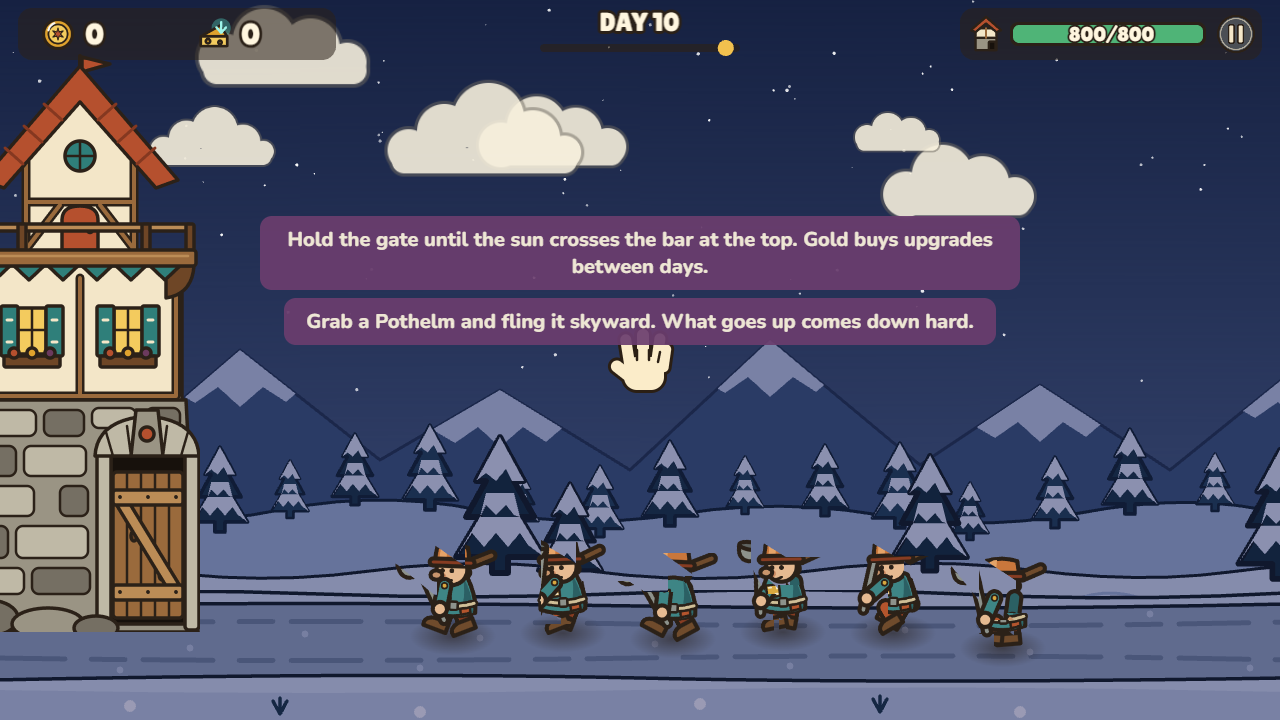
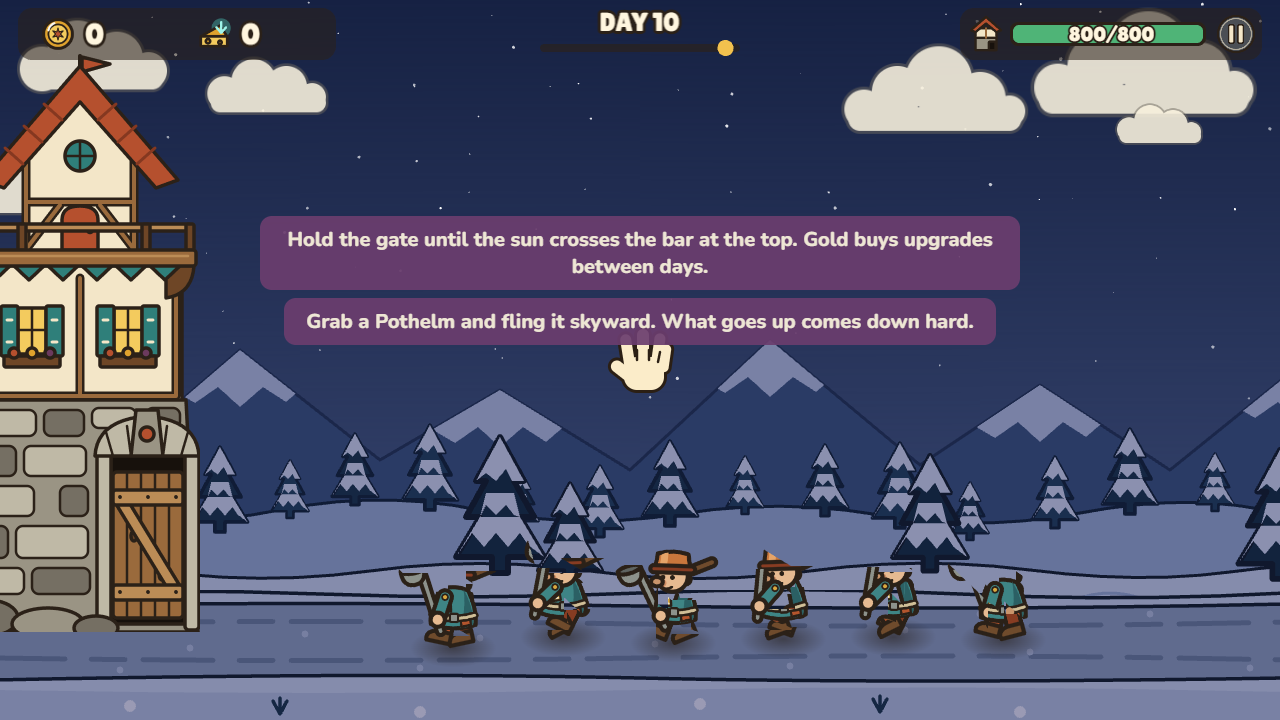
Rebalance after third playtest: pacing, weapons, throw range, visuals

diff --git a/src/config/shop.ts b/src/config/shop.ts
@@ -35,16 +35,16 @@ export const SHOP_ITEMS: ShopItem[] = [
   { id: 'cauldron', name: 'Great Cauldron', tab: 'offerings', gold: 250, offerings: 0, desc: 'Drop enemies into the bubbling pot for +1 offering each.' },
   { id: 'perch', name: 'Eagle Perch', tab: 'offerings', gold: 1000, offerings: 0, desc: 'Hang an enemy on the hook. The great eagle takes it for +1 offering.' },
 
-  { id: 'wheel1', name: 'Rolling Wheel', tab: 'wheels', gold: 450, offerings: 4, desc: 'Sends a stone wheel down the road.' },
-  { id: 'wheel2', name: 'Heavy Wheel', tab: 'wheels', gold: 1200, offerings: 16, requires: 'wheel1', desc: 'Wider, and it does not stop for much.' },
+  { id: 'wheel1', name: 'Rolling Wheel', tab: 'wheels', gold: 700, offerings: 4, desc: 'Sends a stone wheel down the road.' },
+  { id: 'wheel2', name: 'Heavy Wheel', tab: 'wheels', gold: 1200, offerings: 11, requires: 'wheel1', desc: 'Wider, and it does not stop for much.' },
   { id: 'wheel3', name: 'Colossal Wheel', tab: 'wheels', gold: 3200, offerings: 32, requires: 'wheel2', desc: 'Flattens the whole road.' },
 
   { id: 'stomper1', name: 'Stomper', tab: 'stompers', gold: 900, offerings: 8, desc: 'Click its icon, hover where it should land, then press to slam.' },
-  { id: 'stomper2', name: 'Great Stomper', tab: 'stompers', gold: 2200, offerings: 18, requires: 'stomper1', desc: 'A wider slab, reloaded faster.' },
+  { id: 'stomper2', name: 'Great Stomper', tab: 'stompers', gold: 2200, offerings: 12, requires: 'stomper1', desc: 'A wider slab, reloaded faster.' },
   { id: 'stomper3', name: 'Titan Stomper', tab: 'stompers', gold: 5200, offerings: 32, requires: 'stomper2', desc: 'The ground remembers this one.' },
 
   { id: 'comet1', name: 'Comet', tab: 'comets', gold: 600, offerings: 8, desc: 'Grab the comet, swing it, let go. More swing, bigger blast.' },
-  { id: 'comet2', name: 'Blazing Comet', tab: 'comets', gold: 1100, offerings: 18, requires: 'comet1', desc: 'Leaves more fire behind.' },
+  { id: 'comet2', name: 'Blazing Comet', tab: 'comets', gold: 1100, offerings: 12, requires: 'comet1', desc: 'Leaves more fire behind.' },
   { id: 'comet3', name: 'Falling Star', tab: 'comets', gold: 3000, offerings: 34, requires: 'comet2', desc: 'A piece of the sky.' },
 
   { id: 'mortar', name: 'Gate Mortar', tab: 'horns', gold: 1400, offerings: 0, desc: 'Press and move to aim, let go to fire.' },
@@ -69,14 +69,14 @@ export const GATE_HP: Record<string, number> = {
 
 export const WEAPONS = {
   wheel: {
-    wheel1: { speed: 520, radius: 34, damage: 160, cooldown: 17 },
-    wheel2: { speed: 560, radius: 52, damage: 320, cooldown: 15 },
-    wheel3: { speed: 620, radius: 74, damage: 700, cooldown: 13 },
+    wheel1: { speed: 520, radius: 34, damage: 160, cooldown: 17, maxHits: 8 },
+    wheel2: { speed: 560, radius: 52, damage: 320, cooldown: 15, maxHits: 16 },
+    wheel3: { speed: 620, radius: 74, damage: 700, cooldown: 13, maxHits: 999 },
   },
   stomper: {
-    stomper1: { halfWidth: 60, damage: 260, cooldown: 12 },
-    stomper2: { halfWidth: 90, damage: 480, cooldown: 10 },
-    stomper3: { halfWidth: 130, damage: 900, cooldown: 8 },
+    stomper1: { halfWidth: 95, damage: 260, cooldown: 10 },
+    stomper2: { halfWidth: 125, damage: 480, cooldown: 9 },
+    stomper3: { halfWidth: 170, damage: 900, cooldown: 8 },
   },
   comet: {
     comet1: { radius: 80, damage: 120, flameSeconds: 2.5, cooldown: 13 },
@@ -88,14 +88,14 @@ export const WEAPONS = {
     idleCancelSeconds: 20,
   },
   horn: {
-    mortar: { kind: 'blast', radius: 95, damage: 150, cooldown: 5 },
+    mortar: { kind: 'blast', radius: 95, damage: 150, cooldown: 6 },
     frost: { kind: 'freeze', radius: 130, cooldown: 9 },
     bellows: { kind: 'flame', halfWidth: 150, flameSeconds: 2.2, cooldown: 11 },
   },
   bolter: {
-    bolter1: { bolts: 4, damage: 60, pierce: false, cooldown: 9 },
-    bolter2: { bolts: 8, damage: 80, pierce: false, cooldown: 8 },
-    bolter3: { bolts: 12, damage: 120, pierce: true, cooldown: 7 },
+    bolter1: { bolts: 4, damage: 100, pierce: false, cooldown: 9 },
+    bolter2: { bolts: 8, damage: 130, pierce: false, cooldown: 8 },
+    bolter3: { bolts: 12, damage: 180, pierce: true, cooldown: 7 },
   },
   /** Ground flames deal this much damage per second. */
   flameDps: 90,

diff --git a/src/sim/sim.ts b/src/sim/sim.ts
@@ -157,6 +157,7 @@ export class Sim {
     }
     if (!best) return false;
     best.heldBy = p;
+    best.byPlayer = true;
     h.holdingProj = best.id;
     return true;
   }
@@ -405,7 +406,7 @@ export class Sim {
       case 'wheel': {
         const w = WEAPONS.wheel[tier as keyof typeof WEAPONS.wheel];
         const q = this.spawnProjectile('wheel', WORLD.gateX + 30, WORLD.groundY + 22 - w.radius, w.speed, 0);
-        q.size = w.radius; q.damage = w.damage; q.pierce = true;
+        q.size = w.radius; q.damage = w.damage; q.pierce = true; q.maxHits = w.maxHits;
         this.startCooldown(slot, w.cooldown);
         this.emit({ e: 'wheel', size: w.radius });
         break;
@@ -523,7 +524,7 @@ export class Sim {
   private spawnProjectile(kind: ProjectileKind, x: number, y: number, vx: number, vy: number): Projectile {
     const q: Projectile = {
       id: this.s.nextId++, kind, x, y, vx, vy, rot: 0, t: 0, size: 10, damage: 0,
-      heldBy: -1, charge: 0, pierce: false, hit: [], landed: false,
+      heldBy: -1, charge: 0, pierce: false, hit: [], maxHits: Infinity, byPlayer: false, landed: false,
     };
     this.s.projectiles.push(q);
     return q;
@@ -918,6 +919,14 @@ export class Sim {
 
   private updateHop(e: Enemy) {
     const def = ENEMIES.pogo;
+    if (e.t > 0) {
+      // Catching its breath at the gate: the easiest moment to grab it.
+      e.t -= DT;
+      e.y = this.groundOf(e);
+      e.rot = 0;
+      if (e.t <= 0) e.vy = -BEHAVIOUR.pogo.hopSpeed * this.rng.range(0.85, 1.05);
+      return;
+    }
     e.vy += this.tuning.gravity * DT;
     e.y += e.vy * DT;
     e.x -= this.speedOf(e) * DT;
@@ -929,6 +938,9 @@ export class Sim {
     if (e.x <= WORLD.gateX + def.range + 34) {
       this.emit({ e: 'strike', x: e.x, y: e.y, etype: e.type });
       this.damageGate(def.strike, WORLD.gateX + 6, e.y - 50, e.type);
+      e.t = BEHAVIOUR.pogo.restAtGate;
+      e.vy = 0;
+      return;
     }
     e.vy = -BEHAVIOUR.pogo.hopSpeed * this.rng.range(0.85, 1.05);
   }
@@ -1116,6 +1128,7 @@ export class Sim {
             if (Math.abs(e.x - q.x) > q.size + ENEMIES[e.type].radius * 0.6) continue;
             q.hit.push(e.id);
             this.hurt(e, q.damage, 'crush', -1);
+            if (q.hit.length >= q.maxHits) { q.t = -1; this.emit({ e: 'explosion', x: q.x, y: q.y, radius: q.size }); break; }
           }
           if (q.x > WORLD.width + 140) q.t = -1;
           break;
@@ -1177,7 +1190,8 @@ export class Sim {
   private explodeBomb(q: Projectile, radius = BEHAVIOUR.bomb.blastRadius) {
     q.t = -1;
     if (q.x < WORLD.gateX + 90) this.damageGate(q.damage || BEHAVIOUR.bomb.gateDamage, WORLD.gateX + 6, q.y, 'bomber');
-    this.blast(q.x, q.y, radius, BEHAVIOUR.bomb.blastDamage, -1);
+    if (q.byPlayer) this.blast(q.x, q.y, radius, BEHAVIOUR.bomb.blastDamage, -1);
+    else this.emit({ e: 'explosion', x: q.x, y: q.y, radius });
   }
 
   private updateComet(q: Projectile) {

diff --git a/tests/unit/sim.test.ts b/tests/unit/sim.test.ts
@@ -464,10 +464,10 @@ describe('shop', () => {
     expect(sim.owns('wheel2')).toBe(false);
     sim.command({ k: 'buy', p: 0, item: 'wheel1' });
     expect(sim.owns('wheel1')).toBe(true);
-    expect(sim.s.gold).toBe(550);
+    expect(sim.s.gold).toBe(1000 - SHOP_ITEMS.find((i) => i.id === 'wheel1')!.gold);
     expect(sim.s.offerings).toBe(1);
     sim.command({ k: 'buy', p: 0, item: 'wheel1' });
-    expect(sim.s.gold).toBe(550);
+    expect(sim.s.gold).toBe(1000 - SHOP_ITEMS.find((i) => i.id === 'wheel1')!.gold);
     sim.command({ k: 'buy', p: 0, item: 'gate1' });
     expect(sim.owns('gate1')).toBe(false);
   });
@@ -766,6 +766,45 @@ describe('regressions from the first playtest', () => {
     const e = place(sim, 'siegeCart', 700);
     for (let i = 0; i < BEHAVIOUR.siegeCartTaps; i++) sim.command({ k: 'press', p: 0, x: e.x, y: e.y - 40 });
     expect(e.dead).toBe(true);
+  });
+});
+
+describe('regressions from the third playtest', () => {
+  it('a small wheel stops after its hit limit', () => {
+    const sim = battleSim();
+    sim.s.meta.owned.push('wheel1');
+    const list = Array.from({ length: 12 }, (_, i) => place(sim, 'grunt', 500 + i * 6));
+    sim.command({ k: 'activate', p: 0, slot: 'wheel' });
+    for (let i = 0; i < 120; i++) sim.step();
+    expect(list.filter((e) => e.dead).length).toBe(WEAPONS.wheel.wheel1.maxHits);
+  });
+
+  it('a pogo bandit rests after each hit on the gate', () => {
+    const sim = battleSim();
+    const e = place(sim, 'pogo', WORLD.gateX + 90);
+    const ev = runUntil(sim, () => e.t > 0, 400);
+    expect(ev.some((x) => x.e === 'gateHit')).toBe(true);
+    expect(e.y).toBe(WORLD.groundY + e.lane);
+    const hits: number[] = [];
+    for (let t = 0; t < 180; t++) {
+      sim.step();
+      if (sim.drainEvents().some((x) => x.e === 'gateHit')) hits.push(t);
+    }
+    for (let i = 1; i < hits.length; i++) expect(hits[i] - hits[i - 1]).toBeGreaterThan(BEHAVIOUR.pogo.restAtGate * 60);
+  });
+
+  it('enemy bombs do not blow up their own side, returned ones do', () => {
+    const blastOn = (returned: boolean) => {
+      const sim = battleSim();
+      const n = place(sim, 'grunt', 700);
+      sim.s.meta.tuning.walkSpeed = 0;
+      const q = (sim as unknown as { spawnProjectile(k: string, x: number, y: number, vx: number, vy: number): any }).spawnProjectile('bomb', 700, n.y - 30, 0, 0);
+      q.t = 0.05; q.landed = true; q.byPlayer = returned;
+      for (let i = 0; i < 10; i++) sim.step();
+      return n.dead;
+    };
+    expect(blastOn(false)).toBe(false);
+    expect(blastOn(true)).toBe(true);
   });
 });
 

diff --git a/src/render/effects.ts b/src/render/effects.ts
@@ -34,6 +34,7 @@ export class Effects {
   private texts: FloatText[] = [];
   private freeTexts: Phaser.GameObjects.Text[] = [];
   private decals: Decal[] = [];
+  private floatBudget = 3;
 
   constructor(private scene: Phaser.Scene) {
     for (let i = 0; i < MAX_PARTICLES; i++) {
@@ -103,7 +104,7 @@ export class Effects {
     for (const d of this.decals) {
       if (d.life <= 0) continue;
       d.life -= dt;
-      d.img.setAlpha(Math.min(0.9, d.life / 3));
+      d.img.setAlpha(Math.min(0.75, d.life / 2));
       if (d.life <= 0) d.img.setVisible(false);
     }
   }
@@ -111,15 +112,16 @@ export class Effects {
   private decal(tex: string, x: number, y: number, scale: number) {
     let best = this.decals[0];
     for (const d of this.decals) if (d.life < best.life) best = d;
-    best.life = 9;
-    best.img.setTexture(tex).setPosition(x, y).setVisible(true).setScale(scale / TEX_SCALE).setRotation(Math.random() * 0.2 - 0.1).setAlpha(0.9);
+    best.life = 4.5;
+    best.img.setTexture(tex).setPosition(x, y).setVisible(true).setScale(scale / TEX_SCALE).setRotation(Math.random() * 0.2 - 0.1).setAlpha(0.75);
     best.img.setDepth(16 + (y - WORLD.groundY) / 1000);
   }
 
   /** The main meaty hit: splat, droplets, armour bits, dust. `power` is 0..1. */
   splat(x: number, y: number, power: number) {
     const key = propKey(`splat${1 + Math.floor(Math.random() * 3)}`);
-    this.decal(key, x, y + 3, 0.7 + power * 0.8);
+    // Only something on the road leaves a stain; mid-air kills just spray.
+    if (y >= WORLD.groundY - 20) this.decal(key, x, y + 3, 0.7 + power * 0.8);
     const drops = 6 + Math.floor(power * 12);
     for (let i = 0; i < drops; i++) {
       const a = -Math.PI * (0.1 + Math.random() * 0.8);
@@ -158,9 +160,14 @@ export class Effects {
     this.spawn(propKey('offering'), x, y - 20, { life: 1.0, toX, toY, s0: 1.4, s1: 0.6, fade: false });
   }
 
+  /** Allows a few floating numbers per frame; an area kill would otherwise pile up an unreadable stack. */
+  resetFloatBudget() { this.floatBudget = 3; }
+
   floatText(x: number, y: number, text: string, color = '#ffd76a') {
+    if (this.floatBudget <= 0) return;
     const t = this.freeTexts.pop();
     if (!t) return;
+    this.floatBudget--;
     t.setText(text).setColor(color).setPosition(x, y).setVisible(true).setAlpha(1);
     this.texts.push({ t, life: 0.9, vy: -80 });
   }

diff --git a/src/render/scene.ts b/src/render/scene.ts
@@ -74,7 +74,7 @@ export class GameScene extends Phaser.Scene {
     this.keepGate = this.add.image(WORLD.gateX - 74, 620, propKey('gate0')).setOrigin(0, 1).setScale(1 / TEX_SCALE).setDepth(11);
     this.cracks = this.add.image(WORLD.gateX - 74, 620, propKey('crack1')).setOrigin(0, 1).setScale(1 / TEX_SCALE).setDepth(12).setVisible(false);
     this.cauldronBack = this.add.image(WORLD.cauldron.x, 650, propKey('cauldronBack')).setOrigin(0.5, 1).setScale(1 / TEX_SCALE).setDepth(19).setVisible(false);
-    this.cauldronFront = this.add.image(WORLD.cauldron.x, 650, propKey('cauldronFront')).setOrigin(0.5, 1).setScale(1 / TEX_SCALE).setDepth(29).setVisible(false);
+    this.cauldronFront = this.add.image(WORLD.cauldron.x, 650, propKey('cauldronFront')).setOrigin(0.5, 1).setScale(1 / TEX_SCALE).setDepth(19.8).setVisible(false);
     this.perch = this.add.image(WORLD.perch.x, 640, propKey('perch')).setOrigin(0.5, 1).setScale(1 / TEX_SCALE).setDepth(18).setVisible(false);
     this.eagle = this.add.image(0, 0, propKey('eagleA')).setScale(1 / TEX_SCALE).setDepth(40).setVisible(false);
 
@@ -167,7 +167,9 @@ export class GameScene extends Phaser.Scene {
     this.hud.setVisible(true);
 
     s.setHand(this.tracker.x, this.tracker.y);
-    s.update(Math.min(100, deltaMs));
+    // Alone, a hitstop can stop the world for real; a shared game must keep running for the other player.
+    if (s.role !== 'solo' || now >= this.hitstopUntil) s.update(Math.min(100, deltaMs));
+    this.fx.resetFloatBudget();
     const events = s.drainEvents();
     for (const e of events) this.handleEvent(e, s);
 
@@ -245,7 +247,7 @@ export class GameScene extends Phaser.Scene {
       if (q.kind === 'wheel') img.setScale((q.size / 50) / TEX_SCALE);
       else if (q.kind === 'slab') img.setScale((q.size / 80) / TEX_SCALE);
       else if (q.kind === 'comet') {
-        const swell = 1 + Math.min(1, q.charge / 900) * 0.8;
+        const swell = q.heldBy >= 0 ? 1 + Math.min(1, q.charge / 900) * 0.8 : 1;
         img.setScale((swell * (q.size / 80)) / TEX_SCALE);
       } else img.setScale(1 / TEX_SCALE);
     }

diff --git a/src/config/enemies.ts b/src/config/enemies.ts
@@ -45,13 +45,13 @@ export interface EnemyDef {
 export const ENEMIES: Record<EnemyType, EnemyDef> = {
   grunt: {
     name: 'Pothelm',
-    speed: 96, strike: 5, strikeEvery: 1.1, range: 22, hp: 40, radius: 26, height: 87,
+    speed: 96, strike: 4, strikeEvery: 1.1, range: 22, hp: 40, radius: 26, height: 87,
     gold: 10, score: 100, grabbable: true, firstDay: 1, weight: 10, maxPerDay: 999,
     tip: 'Grab a Pothelm and fling it skyward. What goes up comes down hard.',
   },
   bomber: {
     name: 'Keg Hauler',
-    speed: 85, strike: 26, strikeEvery: 3.2, range: 225, hp: 40, radius: 28, height: 90,
+    speed: 85, strike: 16, strikeEvery: 3.2, range: 225, hp: 40, radius: 28, height: 90,
     gold: 15, score: 160, grabbable: true, firstDay: 2, weight: 3, maxPerDay: 40,
     tip: 'Keg Haulers lob bombs at the gate. A quick click makes them drop the keg. Pick up a thrown bomb and send it back.',
   },
@@ -63,7 +63,7 @@ export const ENEMIES: Record<EnemyType, EnemyDef> = {
   },
   pogo: {
     name: 'Pogo Bandit',
-    speed: 150, strike: 9, strikeEvery: 1.0, range: 8, hp: 40, radius: 26, height: 99,
+    speed: 150, strike: 6, strikeEvery: 1.0, range: 8, hp: 40, radius: 26, height: 99,
     gold: 15, score: 180, grabbable: true, firstDay: 4, weight: 3, maxPerDay: 40,
     tip: 'Pogo Bandits bounce over the crowd. Snatch them out of the air.',
   },
@@ -116,7 +116,7 @@ export const ENEMY_TYPES = Object.keys(ENEMIES) as EnemyType[];
 /** Numbers for special behaviours. */
 export const BEHAVIOUR = {
   stunSeconds: 1,
-  bomb: { fuse: 2.6, gateDamage: 26, blastRadius: 120, blastDamage: 220 },
+  bomb: { fuse: 2.6, gateDamage: 16, blastRadius: 95, blastDamage: 220 },
   kegDropFuse: 0.75,
   hexerShield: { on: 3.2, off: 3.4 },
   shade: { hidden: 2.2, visible: 1.5 },

diff --git a/src/render/enemyView.ts b/src/render/enemyView.ts
@@ -131,7 +131,9 @@ export class EnemyView {
     const root = pup.root;
     root.setPosition(ox, oy);
     root.setRotation(rot);
-    root.setDepth(20 + e.lane / 100 + (e.st === 'held' ? 5 : 0) + (e.st === 'air' ? 3 : 0));
+    // A figure falling into the cauldron passes between its back and its rim.
+    const intoCauldron = e.st === 'air' && e.y > WORLD.groundY - 70 && Math.abs(e.x - WORLD.cauldron.x) < WORLD.cauldron.halfWidth + 20;
+    root.setDepth(intoCauldron ? 19.5 : 20 + e.lane / 100 + (e.st === 'held' ? 5 : 0) + (e.st === 'air' ? 3 : 0));
 
     this.squash = Math.max(0, this.squash - dt * 5);
     const sq = this.squash * 0.35;
@@ -157,7 +159,7 @@ export class EnemyView {
     this.bubble.setVisible(e.shield);
     if (this.bubble.visible) {
       const s = 1 + Math.sin(time * 0.012) * 0.04;
-      this.bubble.setPosition(e.x, e.y - def.height * 0.5).setScale(s / TEX_SCALE).setDepth(depth);
+      this.bubble.setPosition(e.x, e.y - def.height * 0.5).setScale(s / TEX_SCALE).setDepth(depth).setAlpha(0.6);
     }
     this.star.setVisible(e.st === 'stun');
     if (this.star.visible) {

diff --git a/src/config/waves.ts b/src/config/waves.ts
@@ -24,15 +24,15 @@ export const DAY = {
   bannerSeconds: 2.6,
   endBannerSeconds: 2.6,
   /** Enemies per day: base + perDay * (day - 1), slower growth after softCapDay. */
-  base: 38,
-  perDay: 14,
+  base: 34,
+  perDay: 12,
   softCapDay: 12,
   perDayAfterCap: 12,
   /** Hard limit of living enemies; spawns wait while it is reached. */
   maxAlive: 200,
   /** Per-day growth after day 1: gate damage, walk speed, and hit points against weapons. */
   damageGrowth: 0.2,
-  speedGrowth: 0.015,
+  speedGrowth: 0.03,
   hpGrowth: 0.12,
   /** Share of the day over which spawning ramps from sparse to dense. */
   rampPower: 0.8,

diff --git a/src/render/hud.ts b/src/render/hud.ts
@@ -146,6 +146,10 @@ export class Hud {
     const cd = v.cooldowns[s.slot];
     const max = v.cooldownMax[s.slot];
     s.icon.setScale((activeMode === s.slot ? 1.18 : 1) / TEX_SCALE);
+    if (cd <= 0) {
+      s.mask.lineStyle(3, 0xfff1c0, 1);
+      s.mask.strokeCircle(s.x, SLOT_Y, SLOT_R + 1);
+    }
     if (cd > 0 && max > 0) {
       // Dark wedge that shrinks clockwise as the weapon recharges.
       const f = cd / max;

diff --git a/src/input/pointer.ts b/src/input/pointer.ts
@@ -41,7 +41,7 @@ export class PointerTracker {
       const dt = (s[i].t - s[i - 1].t) / 1000;
       if (dt <= 0) continue;
       const age = (now - s[i].t) / windowMs;
-      const w = (1 - age) * (1 - age) * dt + 1e-6;
+      const w = (1 - age) * dt + 1e-6;
       vx += ((s[i].x - s[i - 1].x) / dt) * w;
       vy += ((s[i].y - s[i - 1].y) / dt) * w;
       sumW += w;

diff --git a/src/sim/types.ts b/src/sim/types.ts
@@ -76,6 +76,10 @@ export interface Projectile {
   pierce: boolean;
   /** Enemy ids already hit by a piercing projectile. */
   hit: number[];
+  /** Most enemies this may hit. */
+  maxHits: number;
+  /** A bomb the player has touched: only those hurt raiders. */
+  byPlayer: boolean;
   landed: boolean;
 }
 

diff --git a/src/config/tuning.ts b/src/config/tuning.ts
@@ -29,8 +29,8 @@ export interface Tuning {
 export const TUNING_DEFAULT: Tuning = {
   gravity: 3400,
   throwMult: 1.0,
-  maxThrow: 2700,
-  velWindowMs: 80,
+  maxThrow: 1700,
+  velWindowMs: 110,
   lethalImpact: 900,
   hitstopMs: 60,
   shake: 1,
